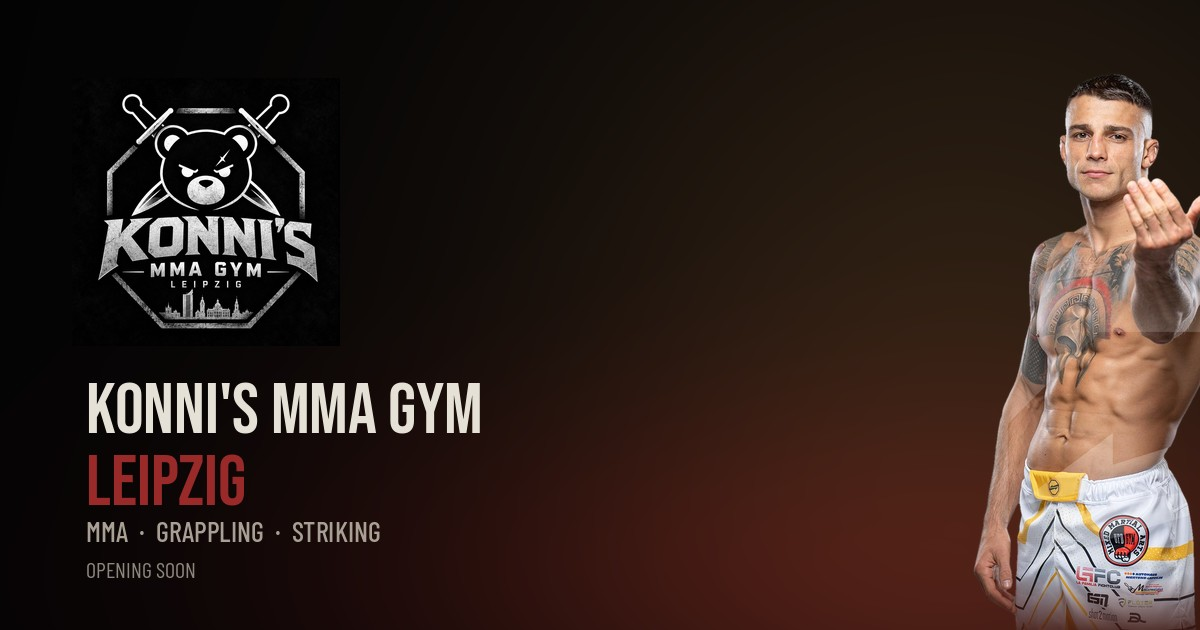
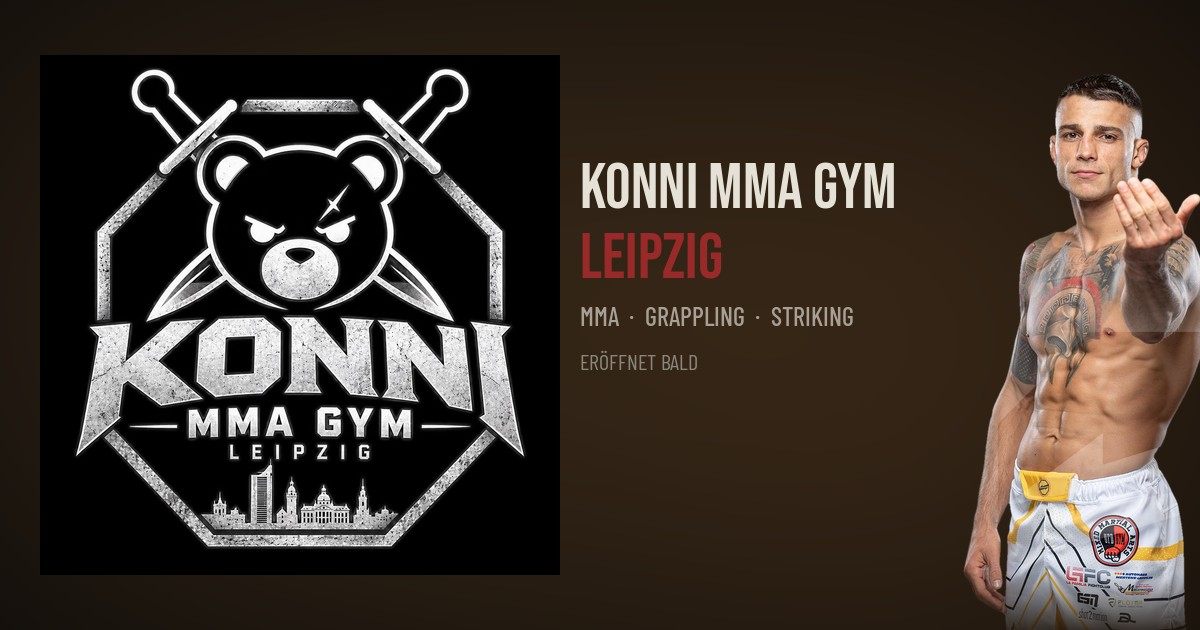
Switch the brand to KONNI MMA GYM and use the new emblem.
The 3D plate, loader, SEO, and legal pages now use the updated logo artwork and drop the apostrophe-s spelling.

diff --git a/public/impressum.html b/public/impressum.html
@@ -4,29 +4,29 @@
     <meta charset="UTF-8" />
     <meta name="viewport" content="width=device-width, initial-scale=1.0, viewport-fit=cover" />
     <meta name="theme-color" content="#050505" />
-    <title>Impressum &amp; Datenschutz | KONNI'S MMA GYM Leipzig</title>
+    <title>Impressum &amp; Datenschutz | KONNI MMA GYM Leipzig</title>
     <meta
       name="description"
-      content="Impressum und Datenschutzerklärung von KONNI'S MMA GYM Leipzig. Diensteanbieter Konrad Dyrschka. Angaben nach § 5 DDG und Art. 13 DSGVO."
+      content="Impressum und Datenschutzerklärung von KONNI MMA GYM Leipzig. Diensteanbieter Konrad Dyrschka. Angaben nach § 5 DDG und Art. 13 DSGVO."
     />
     <meta name="robots" content="index, follow" />
     <meta name="author" content="Konrad Dyrschka" />
     <meta property="og:type" content="website" />
-    <meta property="og:site_name" content="KONNI'S MMA GYM" />
+    <meta property="og:site_name" content="KONNI MMA GYM" />
     <meta property="og:locale" content="de_DE" />
-    <meta property="og:title" content="Impressum &amp; Datenschutz | KONNI'S MMA GYM Leipzig" />
+    <meta property="og:title" content="Impressum &amp; Datenschutz | KONNI MMA GYM Leipzig" />
     <meta
       property="og:description"
-      content="Impressum und Datenschutzerklärung von KONNI'S MMA GYM Leipzig. Diensteanbieter Konrad Dyrschka."
+      content="Impressum und Datenschutzerklärung von KONNI MMA GYM Leipzig. Diensteanbieter Konrad Dyrschka."
     />
     <meta property="og:image" content="/og-image.jpg" />
     <meta property="og:image:width" content="1200" />
     <meta property="og:image:height" content="630" />
     <meta name="twitter:card" content="summary_large_image" />
-    <meta name="twitter:title" content="Impressum &amp; Datenschutz | KONNI'S MMA GYM Leipzig" />
+    <meta name="twitter:title" content="Impressum &amp; Datenschutz | KONNI MMA GYM Leipzig" />
     <meta
       name="twitter:description"
-      content="Impressum und Datenschutzerklärung von KONNI'S MMA GYM Leipzig. Diensteanbieter Konrad Dyrschka."
+      content="Impressum und Datenschutzerklärung von KONNI MMA GYM Leipzig. Diensteanbieter Konrad Dyrschka."
     />
     <meta name="twitter:image" content="/og-image.jpg" />
     <link rel="icon" href="/favicon.ico" sizes="48x48" />
@@ -252,7 +252,7 @@
   <body>
     <main class="wrap">
       <div class="top">
-        <div class="brand">KONNI'S MMA GYM — LEIPZIG</div>
+        <div class="brand">KONNI MMA GYM — LEIPZIG</div>
         <a class="back" href="/">Zur Startseite</a>
       </div>
 
@@ -296,7 +296,7 @@
           benannt und übernimmt keine inhaltliche Verantwortung für diese Website.
         </p>
         <p class="note" style="border: 0; margin-top: 12px; padding-top: 0">
-          Dieses Impressum gilt für die Website <strong>KONNI'S MMA GYM</strong> (Leipzig).
+          Dieses Impressum gilt für die Website <strong>KONNI MMA GYM</strong> (Leipzig).
         </p>
         <p class="note" style="border: 0; margin-top: 12px; padding-top: 0">
           Wir sind nicht bereit und nicht verpflichtet, an Streitbeilegungsverfahren vor einer

diff --git a/src/brand/seo.ts b/src/brand/seo.ts
@@ -1,16 +1,15 @@
 export const SEO = {
-  title: "KONNI'S MMA GYM Leipzig | MMA-Profi Konrad Dyrschka",
-  shortTitle: "KONNI'S MMA GYM Leipzig",
+  title: 'KONNI MMA GYM Leipzig | MMA-Profi Konrad Dyrschka',
+  shortTitle: 'KONNI MMA GYM Leipzig',
   description:
-    "KONNI'S MMA GYM in Leipzig – das MMA-Gym von MMA-Profi Konrad Dyrschka. MMA, Grappling und Striking. Eröffnet bald. Standort und Infos folgen.",
+    'KONNI MMA GYM in Leipzig – das MMA-Gym von MMA-Profi Konrad Dyrschka. MMA, Grappling und Striking. Eröffnet bald. Standort und Infos folgen.',
   ogImagePath: '/og-image.jpg',
-  ogImageAlt:
-    "KONNI'S MMA GYM Leipzig – das MMA-Gym von MMA-Profi Konrad Dyrschka. Eröffnet bald.",
+  ogImageAlt: 'KONNI MMA GYM Leipzig – das MMA-Gym von MMA-Profi Konrad Dyrschka. Eröffnet bald.',
   locale: 'de_DE',
-  siteName: "KONNI'S MMA GYM",
+  siteName: 'KONNI MMA GYM',
   themeColor: '#050505',
   keywords:
-    "MMA Gym Leipzig, MMA Training Leipzig, Grappling Leipzig, Striking Leipzig, Kampfsport Leipzig, KONNI'S MMA GYM, MMA-Profi Konrad Dyrschka, Konrad Dyrschka",
+    'MMA Gym Leipzig, MMA Training Leipzig, Grappling Leipzig, Striking Leipzig, Kampfsport Leipzig, KONNI MMA GYM, MMA-Profi Konrad Dyrschka, Konrad Dyrschka',
 } as const
 
 function escapeHtml(value: string): string {
@@ -30,7 +29,7 @@ export function buildSeoHead(siteUrl = ''): string {
     {
       '@type': 'WebSite',
       name: SEO.siteName,
-      alternateName: ["Konnis MMA Gym", "KONNI'S MMA GYM Leipzig"],
+      alternateName: ['Konni MMA Gym', 'KONNI MMA GYM Leipzig'],
       description: SEO.description,
       inLanguage: 'de-DE',
       ...(pageUrl ? { url: pageUrl } : {}),
@@ -38,7 +37,7 @@ export function buildSeoHead(siteUrl = ''): string {
     {
       '@type': 'SportsActivityLocation',
       name: SEO.siteName,
-      alternateName: "KONNI'S MMA GYM Leipzig",
+      alternateName: 'KONNI MMA GYM Leipzig',
       description: SEO.description,
       image: image,
       ...(pageUrl ? { url: pageUrl } : {}),

diff --git a/index.html b/index.html
@@ -9,15 +9,15 @@
     <meta name="theme-color" content="#050505" />
     <!--seo-head-->
     <link rel="preload" href="/fonts/BebasNeue-Regular.ttf" as="font" type="font/ttf" crossorigin />
-    <link rel="preload" href="/brand/konnis-logo.jpg" as="image" />
+    <link rel="preload" href="/brand/konni-logo.jpg" as="image" />
     <link rel="preload" href="/brand/konrad.png" as="image" />
     <link rel="preload" href="/og-image.jpg" as="image" />
   </head>
   <body>
     <header class="seo-copy">
-      <h1>KONNI'S MMA GYM Leipzig</h1>
+      <h1>KONNI MMA GYM Leipzig</h1>
       <p>
-        KONNI'S MMA GYM in Leipzig – das MMA-Gym von MMA-Profi Konrad Dyrschka. MMA, Grappling und
+        KONNI MMA GYM in Leipzig – das MMA-Gym von MMA-Profi Konrad Dyrschka. MMA, Grappling und
         Striking. Eröffnet bald. Standort und weitere Informationen folgen.
       </p>
     </header>
@@ -29,9 +29,9 @@
     </nav>
     <noscript>
       <main class="legal-noscript">
-        <h1>KONNI'S MMA GYM Leipzig</h1>
+        <h1>KONNI MMA GYM Leipzig</h1>
         <p>
-          KONNI'S MMA GYM in Leipzig – das MMA-Gym von MMA-Profi Konrad Dyrschka. MMA, Grappling und
+          KONNI MMA GYM in Leipzig – das MMA-Gym von MMA-Profi Konrad Dyrschka. MMA, Grappling und
           Striking. Eröffnet bald. Standort und weitere Infos folgen.
         </p>
         <p><a href="/impressum.html">Impressum und Datenschutz</a></p>

diff --git a/src/overlay/Overlay.tsx b/src/overlay/Overlay.tsx
@@ -51,7 +51,7 @@ export function Overlay({ reducedMotion, compact }: OverlayProps) {
     return (
       <main className="story">
         <section className="story-block">
-          <img src="/brand/konnis-logo.jpg" alt="KONNI'S MMA GYM Leipzig" className="story-logo" />
+          <img src="/brand/konni-logo.jpg" alt="KONNI MMA GYM Leipzig" className="story-logo" />
           <p className="kicker">{COPY.gymName}</p>
           <h1>{COPY.city}</h1>
           <p>{COPY.homeOf}</p>

diff --git a/src/overlay/Loader.tsx b/src/overlay/Loader.tsx
@@ -2,7 +2,7 @@ export function Loader({ visible }: { visible: boolean }) {
   return (
     <div className={`loader ${visible ? 'is-on' : 'is-off'}`} aria-hidden={!visible}>
       <div className="loader-mark">
-        <img src="/brand/konnis-logo.jpg" alt="KONNI'S MMA GYM Leipzig" className="loader-logo" />
+        <img src="/brand/konni-logo.jpg" alt="KONNI MMA GYM Leipzig" className="loader-logo" />
         <i />
       </div>
     </div>

diff --git a/src/brand/copy.ts b/src/brand/copy.ts
@@ -1,12 +1,12 @@
 export const COPY = {
-  gymName: "KONNI'S MMA GYM",
+  gymName: 'KONNI MMA GYM',
   city: 'LEIPZIG',
   noEgos: 'NO EGOS.',
   justWork: 'JUST WORK.',
   mma: 'MMA',
   grappling: 'GRAPPLING',
   striking: 'STRIKING',
-  homeOf: "HOME OF KONNI'S MMA GYM.",
+  homeOf: 'HOME OF KONNI MMA GYM.',
   locationSoon: 'Standort wird bald bekannt gegeben.',
   fightSoon: 'THE FIGHT',
   startsSoon: 'STARTS SOON.',

diff --git a/src/experience/LogoEmblem.tsx b/src/experience/LogoEmblem.tsx
@@ -14,7 +14,7 @@ const PLATE_DEPTH = 0.1
 const LOGO_SIZE = 2.42
 
 export function LogoEmblem({ position, scale = 1 }: LogoEmblemProps) {
-  const albedo = useTexture('/brand/konnis-logo.jpg')
+  const albedo = useTexture('/brand/konni-logo.jpg')
 
   useLayoutEffect(() => {
     albedo.colorSpace = THREE.SRGBColorSpace

diff --git a/README.md b/README.md
@@ -1,6 +1,6 @@
-# KONNI'S MMA GYM — Leipzig
+# KONNI MMA GYM — Leipzig
 
-Immersive 3D scroll experience for KONNI'S MMA GYM — the MMA gym of MMA professional Konrad Dyrschka in Leipzig. The page is a single camera move through the gym: blackout intro, cage, disciplines, the Völkerschlachtdenkmal, trailer end card.
+Immersive 3D scroll experience for KONNI MMA GYM — the MMA gym of MMA professional Konrad Dyrschka in Leipzig. The page is a single camera move through the gym: blackout intro, cage, disciplines, the Völkerschlachtdenkmal, trailer end card.
 
 Built with React, Three.js, React Three Fiber, Drei, GSAP ScrollTrigger, and Lenis.
 
@@ -36,4 +36,4 @@ Scroll drives camera position, look-target, FOV, lights, and fog. There is no au
 
 ## Brand
 
-The original KONNI'S MMA GYM emblem (bear, crossed swords, octagon, Leipzig skyline) is staged as a thick metal plate. The artwork is not redrawn. The Leipzig beat is a 3D Völkerschlachtdenkmal — mound, staircase, granite hall, bell dome, and the twelve guardians — not a generic skyline.
+The original KONNI MMA GYM emblem (bear, crossed swords, octagon, Leipzig skyline) is staged as a thick metal plate. The artwork is not redrawn. The Leipzig beat is a 3D Völkerschlachtdenkmal — mound, staircase, granite hall, bell dome, and the twelve guardians — not a generic skyline.
